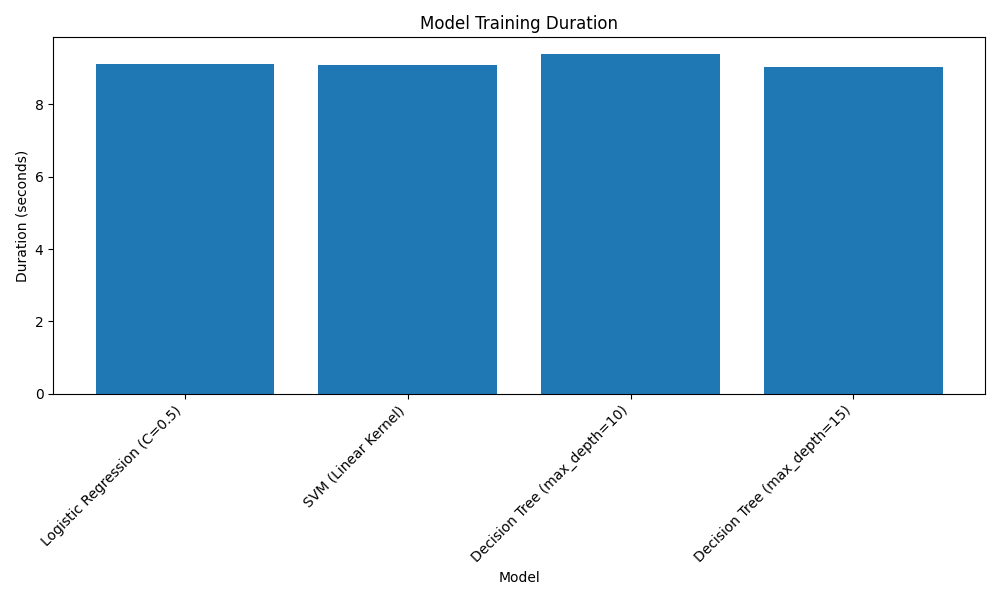
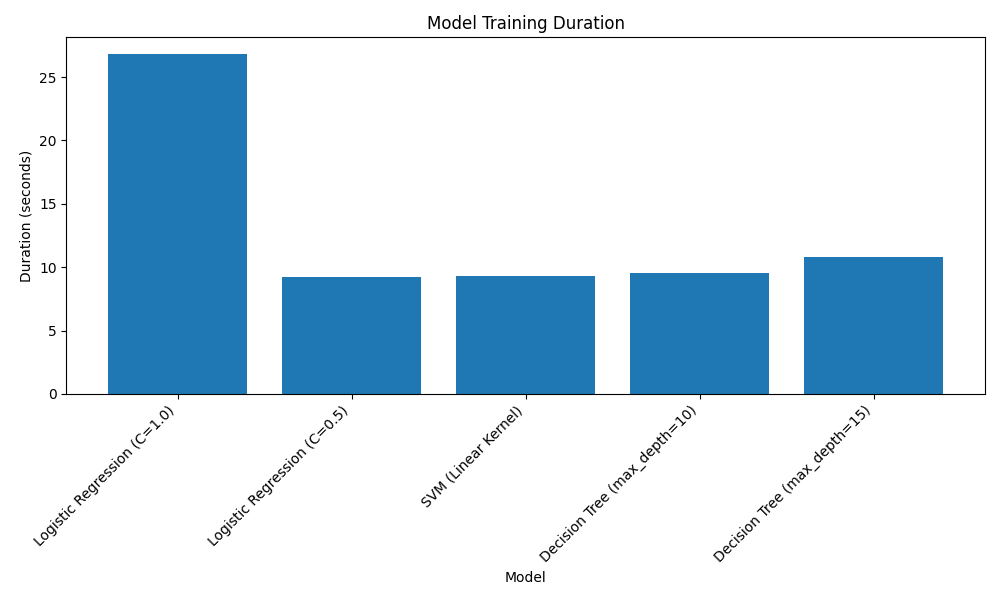
add ClearML

diff --git a/mlflow_output/index.html b/mlflow_output/index.html
@@ -165,8 +165,8 @@
 </head>
 <body>
     <h1>Experiment: obesity_prediction_experiment</h1>
-    <p>Generated on: 2025-01-31 12:53:46</p>
-    <p>Experiment ID: 20250131125346</p>
+    <p>Generated on: 2025-01-31 18:33:31</p>
+    <p>Experiment ID: 20250131183331</p>
 
     <h2>Краткий обзор</h2>
     <p>В этом эксперименте сравнивается производительность различных моделей машинного обучения на наборе данных о риске возникновения ожирения. Среди тестируемых моделей:</p>
@@ -199,6 +199,40 @@
             </tr>
         </thead>
         <tbody>
+            
+                <tr>
+                    
+                        <td>
+                            
+                                Logistic Regression (C=1.0)
+                            
+                        </td>
+                    
+                        <td>
+                            
+                                0.9761
+                            
+                        </td>
+                    
+                        <td>
+                            
+                                0.9766
+                            
+                        </td>
+                    
+                        <td>
+                            
+                                0.9761
+                            
+                        </td>
+                    
+                        <td>
+                            
+                                0.9758
+                            
+                        </td>
+                    
+                </tr>
             
                 <tr>
                     
@@ -369,8 +403,54 @@
                 <tbody>
                     
                     <tr>
+                        <td>Logistic Regression (C=1.0)</td>
+                        <td>26.79</td>
+                        <td>FINISHED</td>
+                        <td>
+                            <details>
+                                <summary>Показать параметры</summary>
+                                <ul>
+                                    
+                                    <li><strong>C:</strong> 1.0</li>
+                                    
+                                    <li><strong>class_weight:</strong> None</li>
+                                    
+                                    <li><strong>dual:</strong> False</li>
+                                    
+                                    <li><strong>fit_intercept:</strong> True</li>
+                                    
+                                    <li><strong>intercept_scaling:</strong> 1</li>
+                                    
+                                    <li><strong>l1_ratio:</strong> None</li>
+                                    
+                                    <li><strong>max_iter:</strong> 1000</li>
+                                    
+                                    <li><strong>model:</strong> Logistic Regression (C=1.0)</li>
+                                    
+                                    <li><strong>multi_class:</strong> auto</li>
+                                    
+                                    <li><strong>n_jobs:</strong> None</li>
+                                    
+                                    <li><strong>penalty:</strong> l2</li>
+                                    
+                                    <li><strong>random_state:</strong> 42</li>
+                                    
+                                    <li><strong>solver:</strong> lbfgs</li>
+                                    
+                                    <li><strong>tol:</strong> 0.0001</li>
+                                    
+                                    <li><strong>verbose:</strong> 0</li>
+                                    
+                                    <li><strong>warm_start:</strong> False</li>
+                                    
+                                </ul>
+                            </details>
+                        </td>
+                    </tr>
+                    
+                    <tr>
                         <td>Logistic Regression (C=0.5)</td>
-                        <td>9.11</td>
+                        <td>9.22</td>
                         <td>FINISHED</td>
                         <td>
                             <details>
@@ -416,7 +496,7 @@
                     
                     <tr>
                         <td>SVM (Linear Kernel)</td>
-                        <td>9.09</td>
+                        <td>9.32</td>
                         <td>FINISHED</td>
                         <td>
                             <details>
@@ -462,7 +542,7 @@
                     
                     <tr>
                         <td>Decision Tree (max_depth=10)</td>
-                        <td>9.38</td>
+                        <td>9.50</td>
                         <td>FINISHED</td>
                         <td>
                             <details>
@@ -504,7 +584,7 @@
                     
                     <tr>
                         <td>Decision Tree (max_depth=15)</td>
-                        <td>9.04</td>
+                        <td>10.84</td>
                         <td>FINISHED</td>
                         <td>
                             <details>
@@ -551,6 +631,23 @@
 
     <h2>Подробные результаты для каждой модели</h2>
 
+    
+        <div class="model-summary">
+            <h3>Logistic Regression (C=1.0)</h3>
+
+            <h4>Classification Report</h4>
+            <pre>              precision    recall  f1-score   support
+
+           0       0.99      0.92      0.96       182
+           1       0.97      1.00      0.98       445
+
+    accuracy                           0.98       627
+   macro avg       0.98      0.96      0.97       627
+weighted avg       0.98      0.98      0.98       627
+</pre>
+
+            <img src="confusion_matrix_logistic_regression_(c=1.0).png" alt="Confusion Matrix for Logistic Regression (C=1.0)">
+        </div>
     
         <div class="model-summary">
             <h3>Logistic Regression (C=0.5)</h3>
@@ -622,7 +719,17 @@ weighted avg       0.95      0.95      0.95       627
     
 
     <h2>Выводы</h2>
-
+    <p>
+        <strong>Лучшая модель:</strong> Модель дерева решений с `max_depth=15` достигла наивысших значений accuracy (0.9936), precision (0.9937), recall (0.9936) и f1_score (0.9936), что делает ее самой надежной моделью в этом эксперименте.</p>
+    <p>
+        <strong>Логистическая регрессия: </strong> Эта модель показала относительно низкую производительность в сравнении. Изменение параметра регуляризации `C` не оказало существенного влияния на ее производительность, что говорит о том, что она может быть не самой лучшей моделью для данного набора данных.
+    </p>
+    <p>
+        <strong>Эффект глубины дерева решений:</strong> Увеличение max_depth дерева решений с 10 до 15 улучшило все показатели производительности, указывая на то, что при меньшей глубине модель была недостаточно приспособлена.
+    </p>
+    <p>
+        <strong>Время обучения моделей</strong>: Логистическая регрессия с C=1.0 требует значительно больше времени на обучение (4.8 секунд) по сравнению с другими моделями. Интересно отметить, что уменьшение параметра регуляризации C до 0.5 существенно сократило время обучения до 2.9 секунд. Деревья решений показали стабильное время обучения около 3 секунд независимо от глубины (max_depth=10 или max_depth=15), что делает их не только более эффективными по метрикам качества, но и достаточно быстрыми в обучении.
+    </p>
 
 </body>
 </html>

diff --git a/experiments.py b/experiments.py
@@ -1,12 +1,13 @@
 import mlflow
 import mlflow.sklearn
+import clearml
 import pandas as pd
 import matplotlib.pyplot as plt
 import seaborn as sns
 import os
 from sklearn.linear_model import LogisticRegression
 from sklearn.tree import DecisionTreeClassifier
-from sklearn.svm import SVC  # Импортируем SVM
+from sklearn.svm import SVC  
 from sklearn.model_selection import train_test_split
 from sklearn.metrics import (
     accuracy_score,
@@ -18,6 +19,13 @@ from sklearn.metrics import (
 )
 from datetime import datetime
 from jinja2 import Template
+from clearml import Task
+
+task = Task.init(
+    project_name="Obesity Prediction",
+    task_name="Model Training",
+    task_type=Task.TaskTypes.optimizer,
+)
 
 # Загрузка данных
 data = pd.read_csv("data/clean_data.csv")
@@ -118,6 +126,8 @@ def log_model_with_metrics(
             "classification_report_path": report_filename,
         }
 
+        task.upload_artifact("model", artifact_object=model)
+
 
 def run_experiments():
     """Запуск нескольких экспериментов с разными параметрами"""
@@ -169,6 +179,15 @@ def run_experiments():
             'confusion_matrix_path': run_results["confusion_matrix_path"],
             'classification_report_path': run_results["classification_report_path"],  # noqa:E501
         })
+        task.connect({
+            "accuracy": mlflow.get_run(run_id).data.metrics["accuracy"],
+            "precision": mlflow.get_run(run_id).data.metrics["precision"],
+            "recall": mlflow.get_run(run_id).data.metrics["recall"],
+            "f1_score": mlflow.get_run(run_id).data.metrics["f1_score"],
+            "confusion_matrix_path": run_results["confusion_matrix_path"],
+            "classification_report_path": run_results["classification_report_path"]}
+            )
+
         print(f"Completed experiment with {exp['name']}")
 
 
@@ -180,7 +199,7 @@ def run_experiments():
 # Генерация HTML-отчета
 def generate_report(filtered_runs):
     # Сохраняем только последние 4 эксперимента
-    filtered_runs = filtered_runs[-4:]
+    #filtered_runs = filtered_runs[-4:]
 
     # Округляем значения до 4 знаков
     for metric in ["accuracy", "precision", "recall", "f1_score"]:
